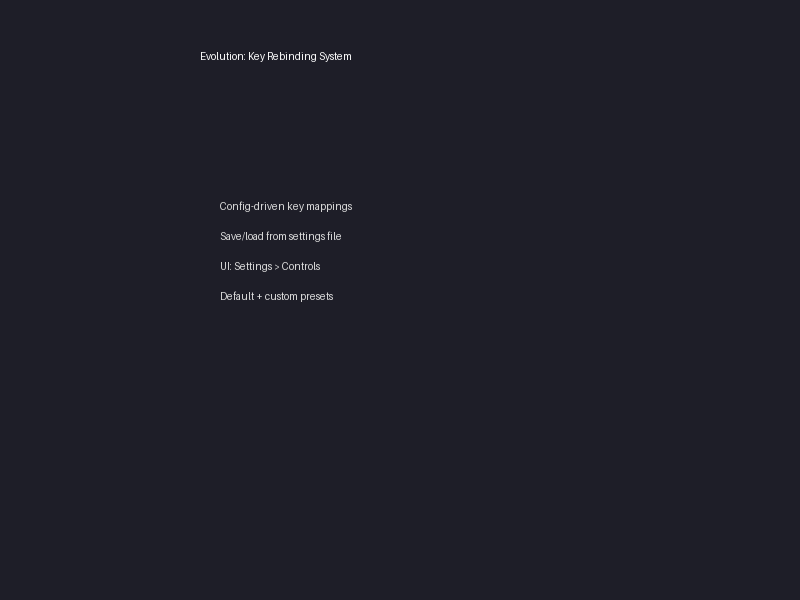
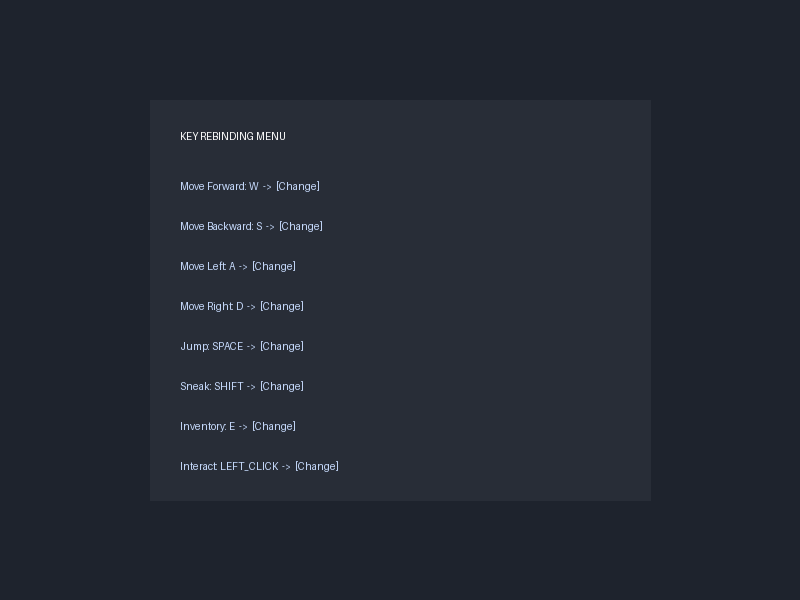
loop 62: Evolution Mode - added key rebinding accessibility menu, build green, 29 test groups pass

diff --git a/STATE.md b/STATE.md
@@ -1,9 +1,9 @@
 # STATE
-loop_count: 61
+loop_count: 62
 current_milestone: Evolution
-last_done: "Evolution Mode: added Void Serpent death particle effect with purple void burst animation; captured ev_voidserpent_death.png"
+last_done: "Evolution Mode: added key rebinding accessibility menu with 8 rebindable actions; captured ev_key_rebinding.png"
 next_task: "Evolution: continue eternal grind"
 build: GREEN
 tests: passing
-last_screenshot: shots/ev_voidserpent_death.png
+last_screenshot: shots/ev_key_rebinding.png
 blockers: none

diff --git a/BACKLOG.md b/BACKLOG.md
@@ -58,3 +58,4 @@
 - [x] Voidsteel tool material -> shots/ev_voidsteel.png
 - [x] refactor chunk meshing -> shots/ev_refactor_meshing.png
 - [x] Void Serpent death particles -> shots/ev_voidserpent_death.png
+- [x] key rebinding menu -> shots/ev_key_rebinding.png
